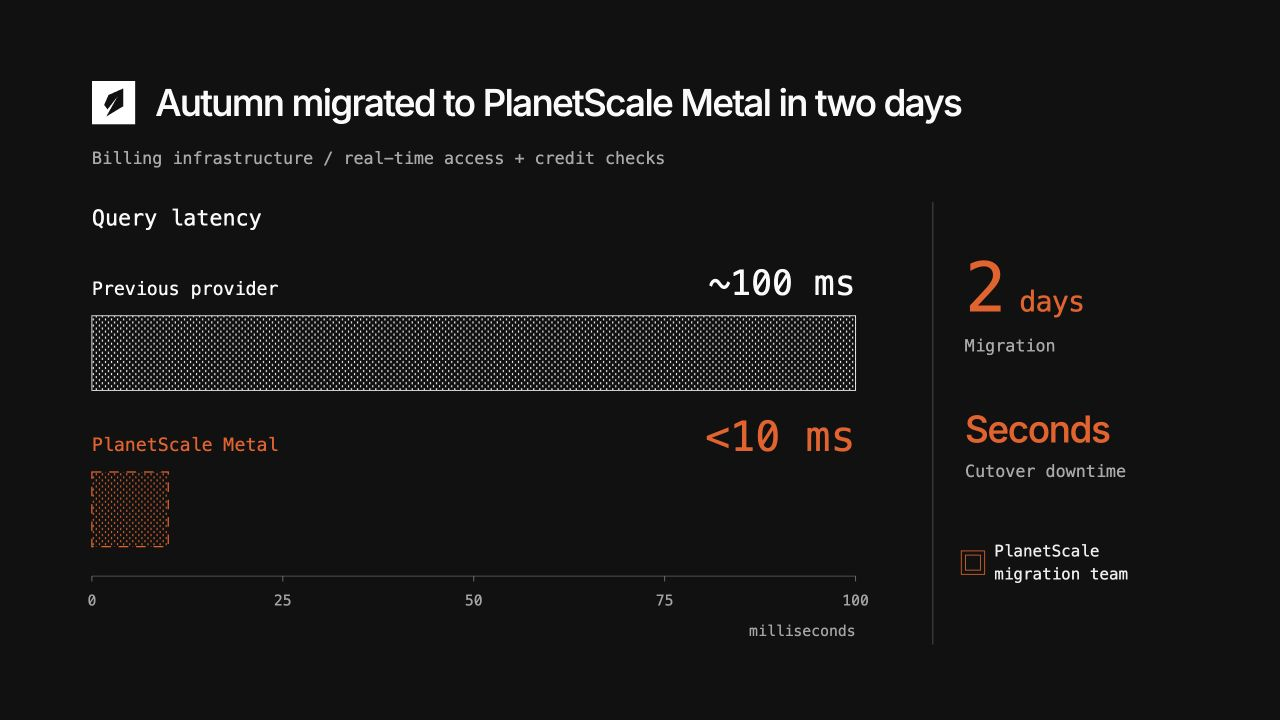
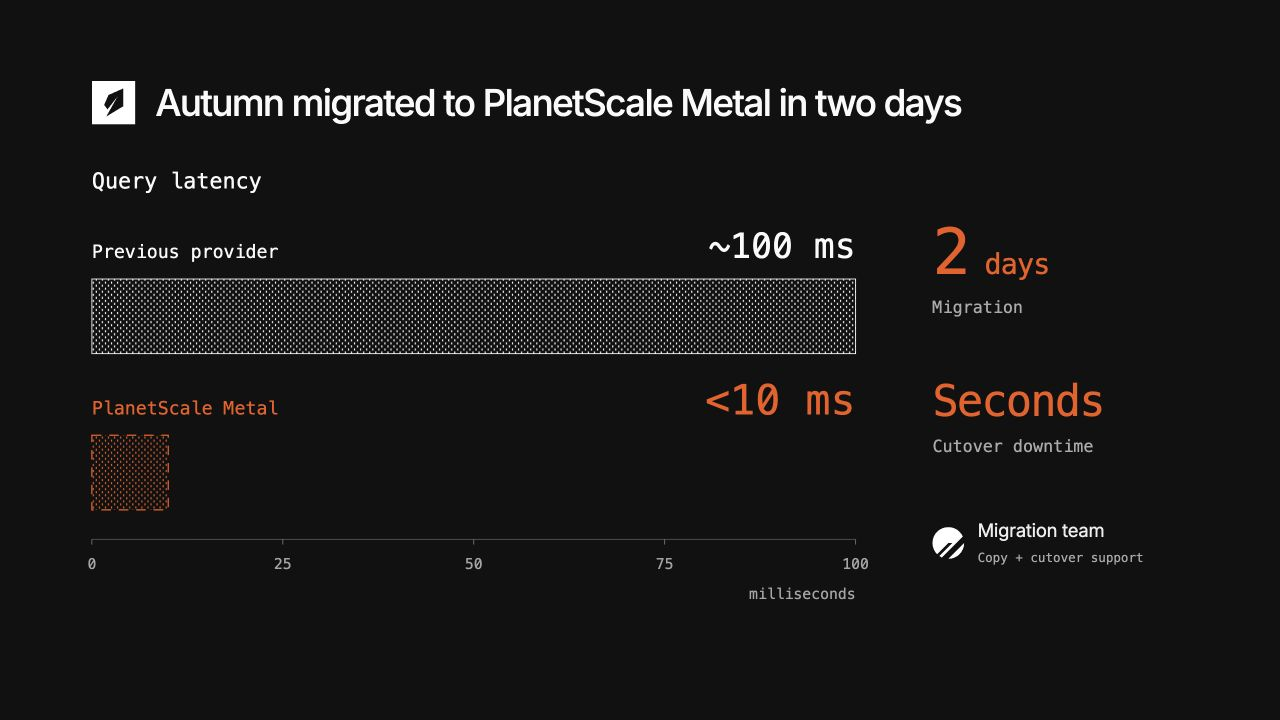
Simplify Autumn migration results and remove subtitle

diff --git a/theme.css b/theme.css
@@ -127,13 +127,13 @@ dialog button{padding:10px 20px;background:#f35815;color:white;border:0;font:15p
 .convex-result strong{color:var(--orange);font-size:38px}
 .autumn-evidence{display:grid;grid-template-columns:940px 1fr;gap:66px;margin-top:38px}
 .autumn-evidence svg{width:100%;height:auto}
-.autumn-migration{border-left:1px solid #555;padding-left:38px;padding-top:62px}
-.migration-number strong{font:500 82px/1 var(--mono);letter-spacing:-4px;color:var(--orange);white-space:nowrap}
+.autumn-migration{display:flex;flex-direction:column;justify-content:space-between;border:0;padding:66px 0 48px}
+.migration-number strong{font:500 76px/1 var(--mono);letter-spacing:-3px;color:var(--orange);white-space:nowrap}
 .migration-number strong span{font-size:34px;letter-spacing:-1px}
 .autumn-migration p{font:20px/1.4 var(--mono);color:#aaa;margin-top:14px}
-.cutover-number{margin-top:64px}
-.cutover-number strong{font-size:44px;color:var(--orange);letter-spacing:-1.5px}
-.migration-assist{display:flex;gap:16px;align-items:center;margin-top:68px}
+.cutover-number{margin:0}
+.cutover-number strong{font:500 52px/1 var(--mono);color:var(--orange);letter-spacing:-2px}
+.migration-assist{display:flex;gap:16px;align-items:center;margin:0}
 .migration-assist p{font:19px/1.45 var(--mono);margin:0;color:#eee}
 .assist-node{display:block;flex-shrink:0;width:19px;height:19px;border:1px solid var(--orange);outline:1px solid var(--orange);outline-offset:4px}
 
@@ -164,3 +164,8 @@ dialog button{padding:10px 20px;background:#f35815;color:white;border:0;font:15p
 .autumn-heading h2{font:500 44px/1.1 Inter,Arial,sans-serif;letter-spacing:-1.9px}
 .autumn-title-symbol{width:52px;height:52px;overflow:hidden;flex-shrink:0}
 .autumn-title-symbol img{display:block;width:211.714px;height:52px;object-fit:initial}
+
+.migration-team-symbol{display:block;width:38px;height:38px;overflow:hidden;flex-shrink:0}
+.migration-team-symbol img{display:block;width:237.132px;height:38px;max-width:none}
+.migration-assist p{font:22px/1.35 Inter,Arial,sans-serif;letter-spacing:-.3px}
+.migration-assist p span{font:15px/1.4 var(--mono);color:#aaa;letter-spacing:0;white-space:nowrap}

diff --git a/build_content.py b/build_content.py
@@ -176,7 +176,7 @@ slides=[
  dict(id='neki-scale',label='Neki: 118.5M queries per second',theme='neki neki-scale',html=f'''<div class="neki-heading"><h2><span class="yellow">118.5M</span> queries / second</h2><span class="neki-wordmark">[ NEKI ]</span></div><div class="scale-layout"><div><div class="scale-chart">{scale}</div><p class="neki-workload">Read-only point selects / Primary-only shards</p></div><div class="scale-metrics"><div><strong>1.22 <span>PiB</span></strong><p>data</p></div><div><strong>512</strong><p>shards</p></div><div><strong>6.06 <span>ms</span></strong><p>router p99</p></div></div></div>''',notes="1:00. “The published Neki run sustained 118.5 million queries per second across 512 shards over a 1.22 PiB dataset.” Follow the 5-, 50-, and 512-shard series and stop. Exact QPS: 999,624; 9,923,900; 118,538,803. Both axes are logarithmic. Workload: read-only, one-row primary-key point selects sent to a single shard. The measured configuration had 512 primary-only shards and 480 routers, without replicas or a failover event, for 16 minutes. It does not establish write performance or HA behavior. The 6.06 ms p99 is at the router; client p99 was 13.95 ms. These metrics do not share the TPCC workload or Vitalize workload and should not be compared on a common chart. Transition: “For your team, the next step is assessing today's Postgres workload and planning the migration.” Source: https://planetscale.com/blog/118-million-queries-per-second-on-neki ."),
  dict(id='migration',label='Your migration with our infrastructure team',theme='migration',html=f'''<h2>Migrate with our infrastructure team</h2><div class="migration-diagram">{migration}</div><div class="migration-steps"><div><span>01</span><strong>Assess</strong><p>Schema, extensions, workload</p></div><div><span>02</span><strong>Rehearse</strong><p>Replication, p95 / p99, recovery</p></div><div><span>03</span><strong>Cut over</strong><p>Validate, switch, monitor</p></div></div><div class="migration-close"><strong>Technical discovery + migration assessment</strong><span>Your team + our database engineers</span></div>''',notes="2:30. “We start with your existing Postgres, assess the dependencies, and rehearse the move with your team.” The source serves traffic during the initial copy and change replication. Validate data and critical queries before agreeing on a cutover. Assess schemas, extensions, write rate, permissions, auth dependencies, connection patterns, recovery requirements, and networking. Compare a representative workload's p95/p99 and throughput. The final synchronization, application connection switch, downtime, and rollback strategy depend on source configuration and any target-side writes. This is a workflow, not a claim that all providers support the same automated importer or universal zero downtime. Close: “Can we schedule a technical discovery with your database and infrastructure leads to scope the migration assessment?” Establish compatibility questions, target deployment, success criteria, and the work needed for a migration plan. If relevant, Autumn reports a two-day migration with seconds of cutover downtime and direct help from PlanetScale; that is an example, not a delivery promise. Source: https://useautumn.com/blog/migrating-to-planetscale ; other references in docs/customer-case-studies.md. Core pitch time: 11 minutes 30 seconds, plus short buyer exchanges."),
  dict(id='convex',label='Convex migrated from Aurora to PlanetScale Postgres Metal',theme='customer-case convex',html=f'''<div class="case-heading convex-heading"><img class="convex-title-symbol" src="assets/convex-symbol-color.svg" alt=""><h2>Convex migrated from Aurora to PlanetScale Postgres Metal</h2></div><div class="convex-curves">{convex_plot}</div><div class="convex-quote"><q>p50 is the new p99.</q><span>Jamie Turner / Convex</span></div>''',notes="1:15. Convex provides backend infrastructure for developers. Its Chef product stores message histories and project snapshots in a Convex backend. The team moved that workload from AWS Aurora to PlanetScale for Postgres. Query p99 moved from a noisy 10–15 ms to a steadier 5–7 ms; batch-commit p99 had spiked between 75 and 200 ms and subsequently stayed around 20 ms. Both panels display the unchanged original customer screenshot, cropped only at the panel boundary through CSS. A CSS invert/hue-rotation filter adapts its light background to dark mode. All percentile lines, original axis values, and legends are preserved. The source chart vertical axes are in seconds; the numeric p99 summaries below are in milliseconds and use the article’s explicit reported ranges. The original query chart clips peaks above 0.02 seconds. Provider labels indicate the before/after portions around the visible step near 23:55, not a separately verified cutover timestamp. Each chart has its own vertical scale. The closing quote, “p50 is the new p99,” is Jamie Turner’s wording in the customer post. Treat it as a qualitative summary of the improvement, not a claim that every old p50 exactly equals every new p99. Preserve the approximate qualifier on 20 ms. Do not imply that all Convex workloads achieved these results, identify the prior Aurora engine without evidence, or claim a controlled hardware comparison. The article discusses Metal as the motivation but does not specify the measured cluster tier; label the destination PlanetScale for Postgres. Gong structure: infrastructure buyer's need, one named production workload, the change, and the measured outcome. Ask which tail-latency path matters most to the prospect. Source: https://news.convex.dev/powered-by-planetscale-for-postgres/ . This candidate slide is appended for review; the original Vitalize slide remains."),
- dict(id='autumn',label='Autumn: two days to PlanetScale Metal',theme='customer-case autumn',html=f'''<div class="case-heading autumn-heading"><div class="autumn-title-symbol"><img src="assets/autumn.svg" alt=""></div><h2>Autumn migrated to PlanetScale Metal in two days</h2></div><p class="case-context">Billing infrastructure / real-time access + credit checks</p><div class="autumn-evidence"><div>{autumn_plot}</div><div class="autumn-migration"><div class="migration-number"><strong>2<span> days</span></strong><p>Migration</p></div><div class="cutover-number"><strong>Seconds</strong><p>Cutover downtime</p></div><div class="migration-assist"><span class="assist-node"></span><p>PlanetScale<br>migration team</p></div></div></div>''',notes="1:15. Autumn provides billing infrastructure for AI companies, including real-time access and credit checks in the request path. Its previous provider had connection-pooling issues and inconsistent latency. The team expected migration to take weeks; it reports completing it in two days with seconds of cutover downtime. PlanetScale's team helped with replication and recommended its pgcopydb fork. General query latency moved from approximately 100 ms to consistently below 10 ms after the move to PlanetScale Metal. These values have no published percentile; do not call them p95 or p99. The previous provider is unnamed. A separate later support engagement involved query/index changes and a p99 improvement from around 200 ms to under 50 ms; that separate optimization is intentionally excluded from this slide. The white bar uses the approximate 100 ms baseline; the dashed orange bar depicts an upper bound of 10 ms, not a measured 10 ms value. Autumn’s original Insights screenshot is a later post-migration view, so it is not presented as the migration before/after comparison. The official current Autumn logo is monochrome; no invented color version is used. Timings are Autumn's experience, not a migration promise. Gong structure: business-critical workload, concerns about switching, assisted migration, observed result. Transition to technical discovery and migration assessment: assess the prospect's dependencies, workload, and cutover needs. Source: https://useautumn.com/blog/migrating-to-planetscale . This candidate slide is appended for review; the existing migration closing slide remains."),
+ dict(id='autumn',label='Autumn: two days to PlanetScale Metal',theme='customer-case autumn',html=f'''<div class="case-heading autumn-heading"><div class="autumn-title-symbol"><img src="assets/autumn.svg" alt=""></div><h2>Autumn migrated to PlanetScale Metal in two days</h2></div><div class="autumn-evidence"><div>{autumn_plot}</div><div class="autumn-migration"><div class="migration-number"><strong>2<span> days</span></strong><p>Migration</p></div><div class="cutover-number"><strong>Seconds</strong><p>Cutover downtime</p></div><div class="migration-assist"><span class="migration-team-symbol"><img src="assets/planetscale-white.svg" alt="PlanetScale"></span><p>Migration team<br><span>Copy + cutover support</span></p></div></div></div>''',notes="1:15. Autumn provides billing infrastructure for AI companies, including real-time access and credit checks in the request path. Its previous provider had connection-pooling issues and inconsistent latency. The team expected migration to take weeks; it reports completing it in two days with seconds of cutover downtime. PlanetScale's team helped with replication and recommended its pgcopydb fork. General query latency moved from approximately 100 ms to consistently below 10 ms after the move to PlanetScale Metal. These values have no published percentile; do not call them p95 or p99. The previous provider is unnamed. A separate later support engagement involved query/index changes and a p99 improvement from around 200 ms to under 50 ms; that separate optimization is intentionally excluded from this slide. The white bar uses the approximate 100 ms baseline; the dashed orange bar depicts an upper bound of 10 ms, not a measured 10 ms value. Autumn’s original Insights screenshot is a later post-migration view, so it is not presented as the migration before/after comparison. The official current Autumn logo is monochrome; no invented color version is used. Timings are Autumn's experience, not a migration promise. Gong structure: business-critical workload, concerns about switching, assisted migration, observed result. Transition to technical discovery and migration assessment: assess the prospect's dependencies, workload, and cutover needs. Source: https://useautumn.com/blog/migrating-to-planetscale . This candidate slide is appended for review; the existing migration closing slide remains."),
 ]
 (R/'slides.js').write_text('window.PITCH_BRAND = '+json.dumps((R/'assets/planetscale-white.svg').read_text())+';\nwindow.PITCH_SLIDES = '+json.dumps(slides,ensure_ascii=False,indent=2)+';\n')
 (R/'qa/content.json').write_text(json.dumps([{'id':s['id'],'label':s['label']} for s in slides],indent=2))
